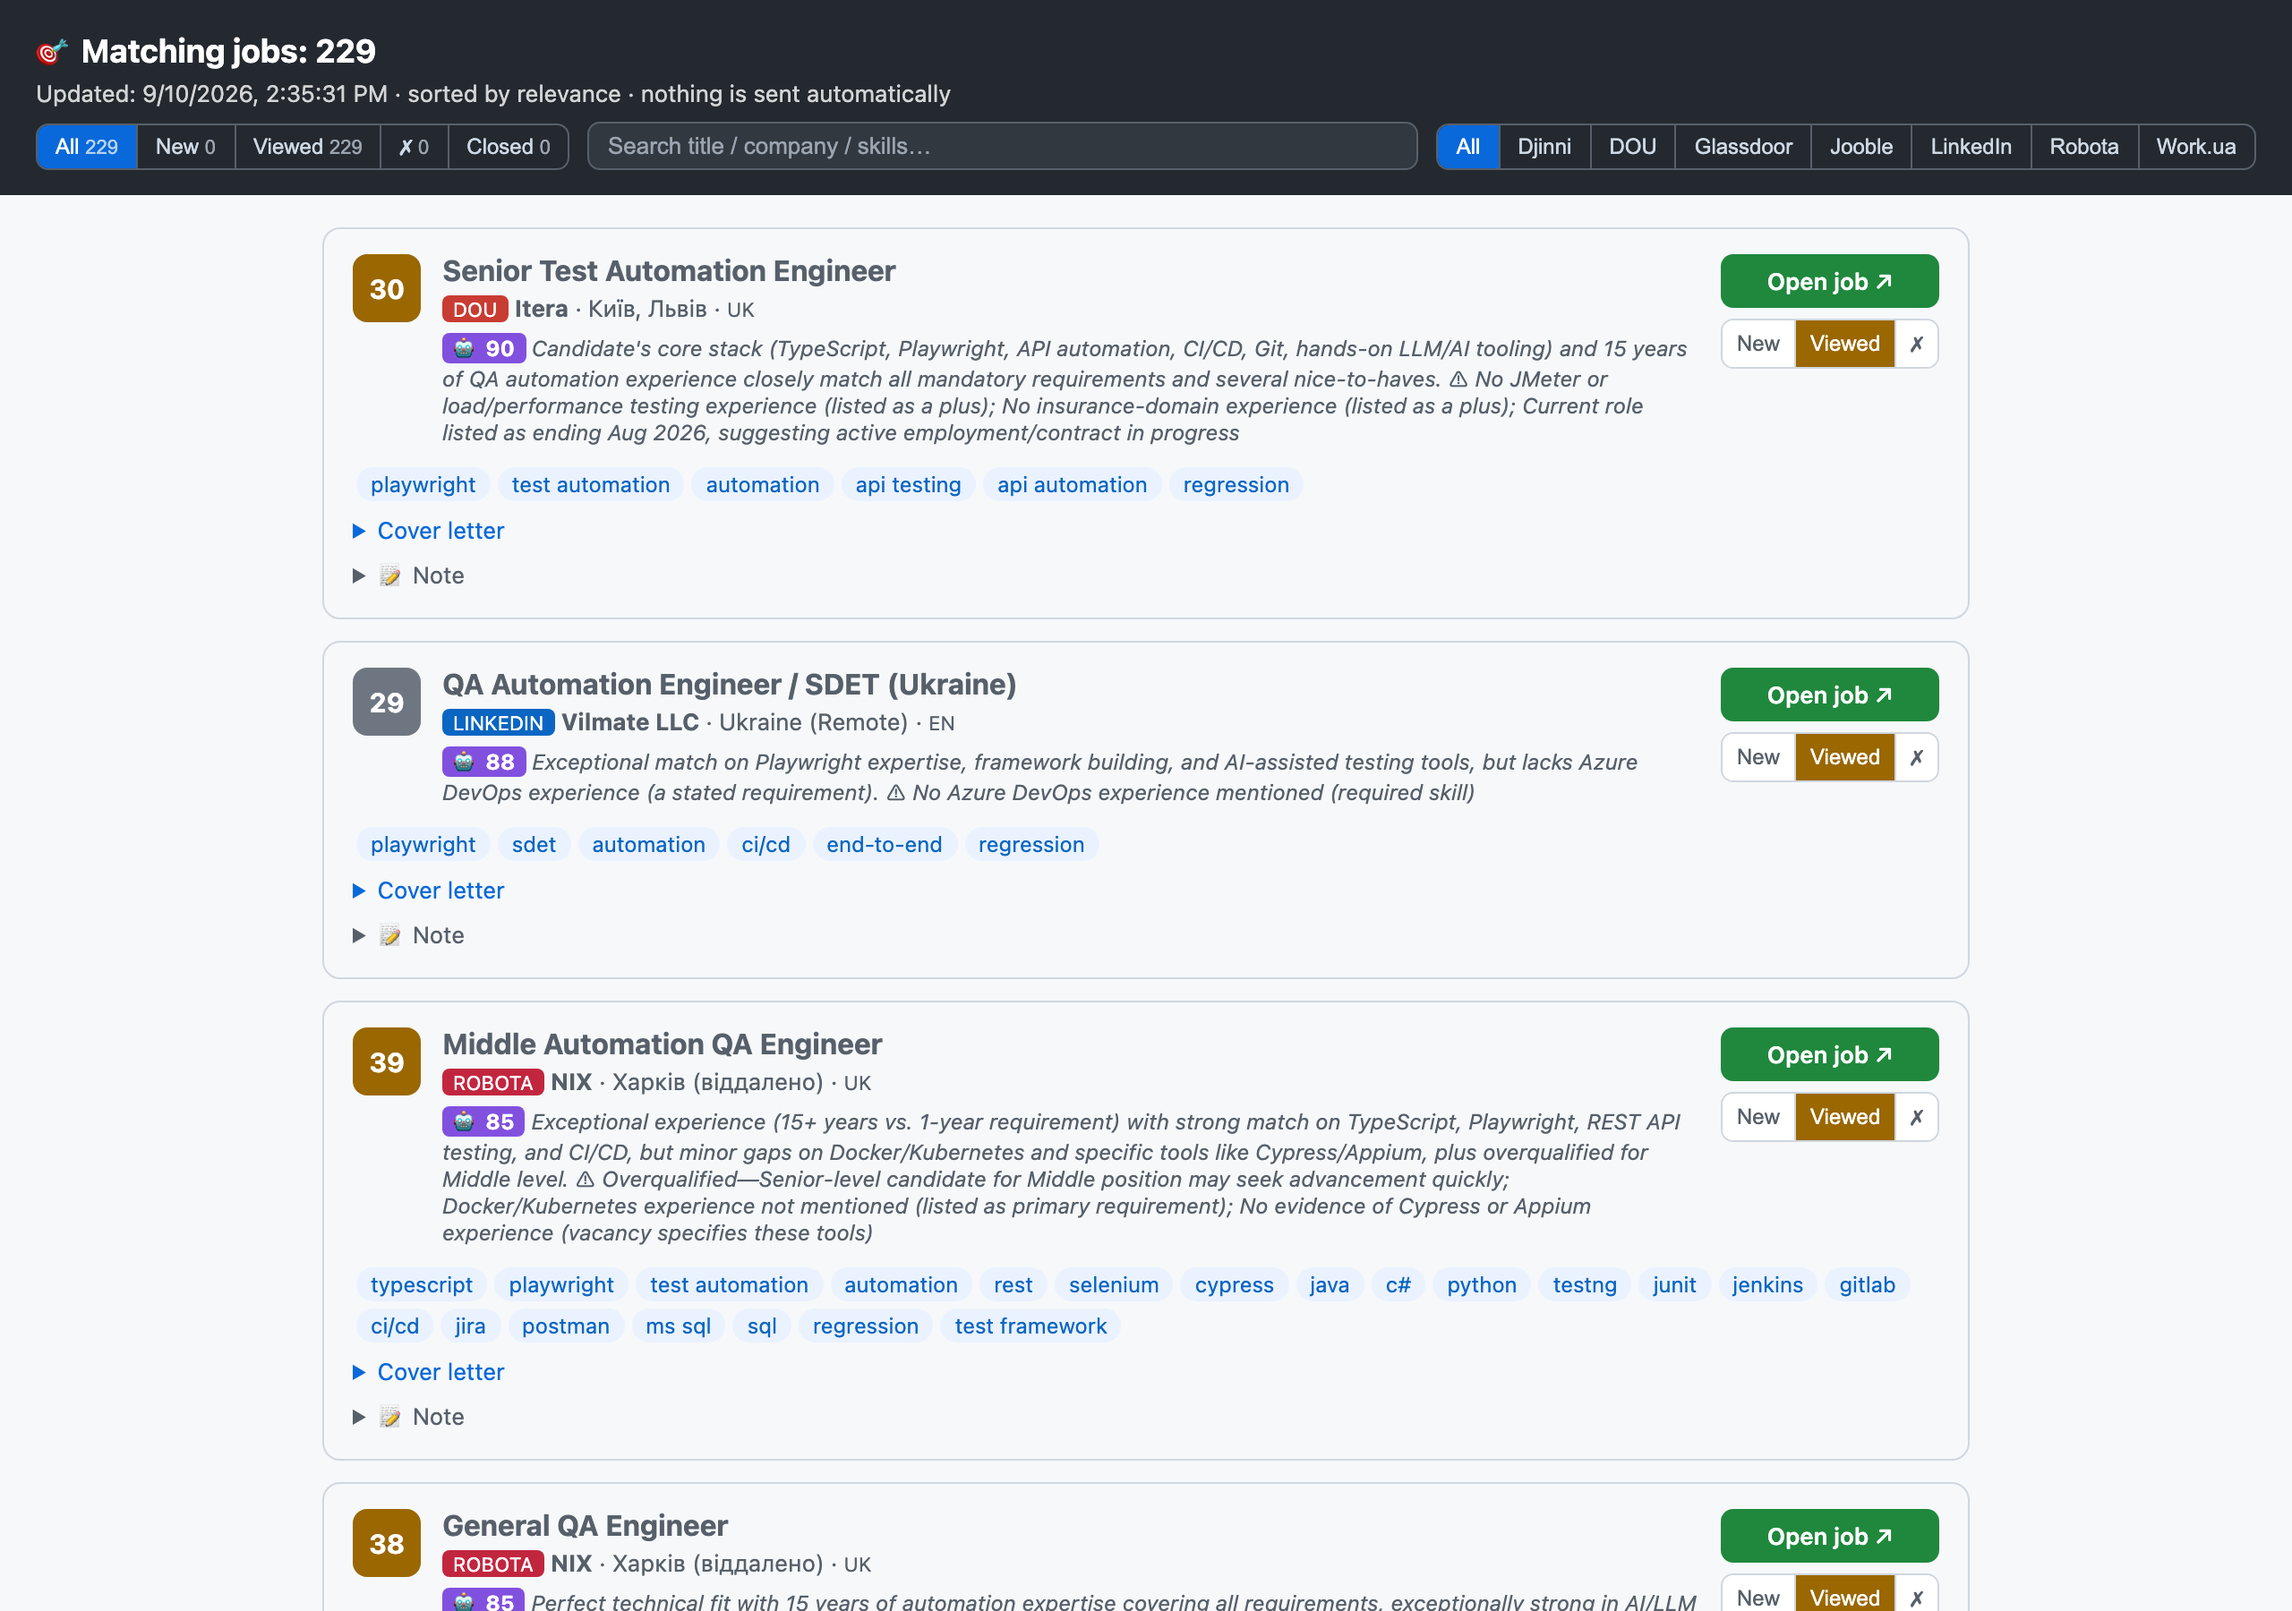
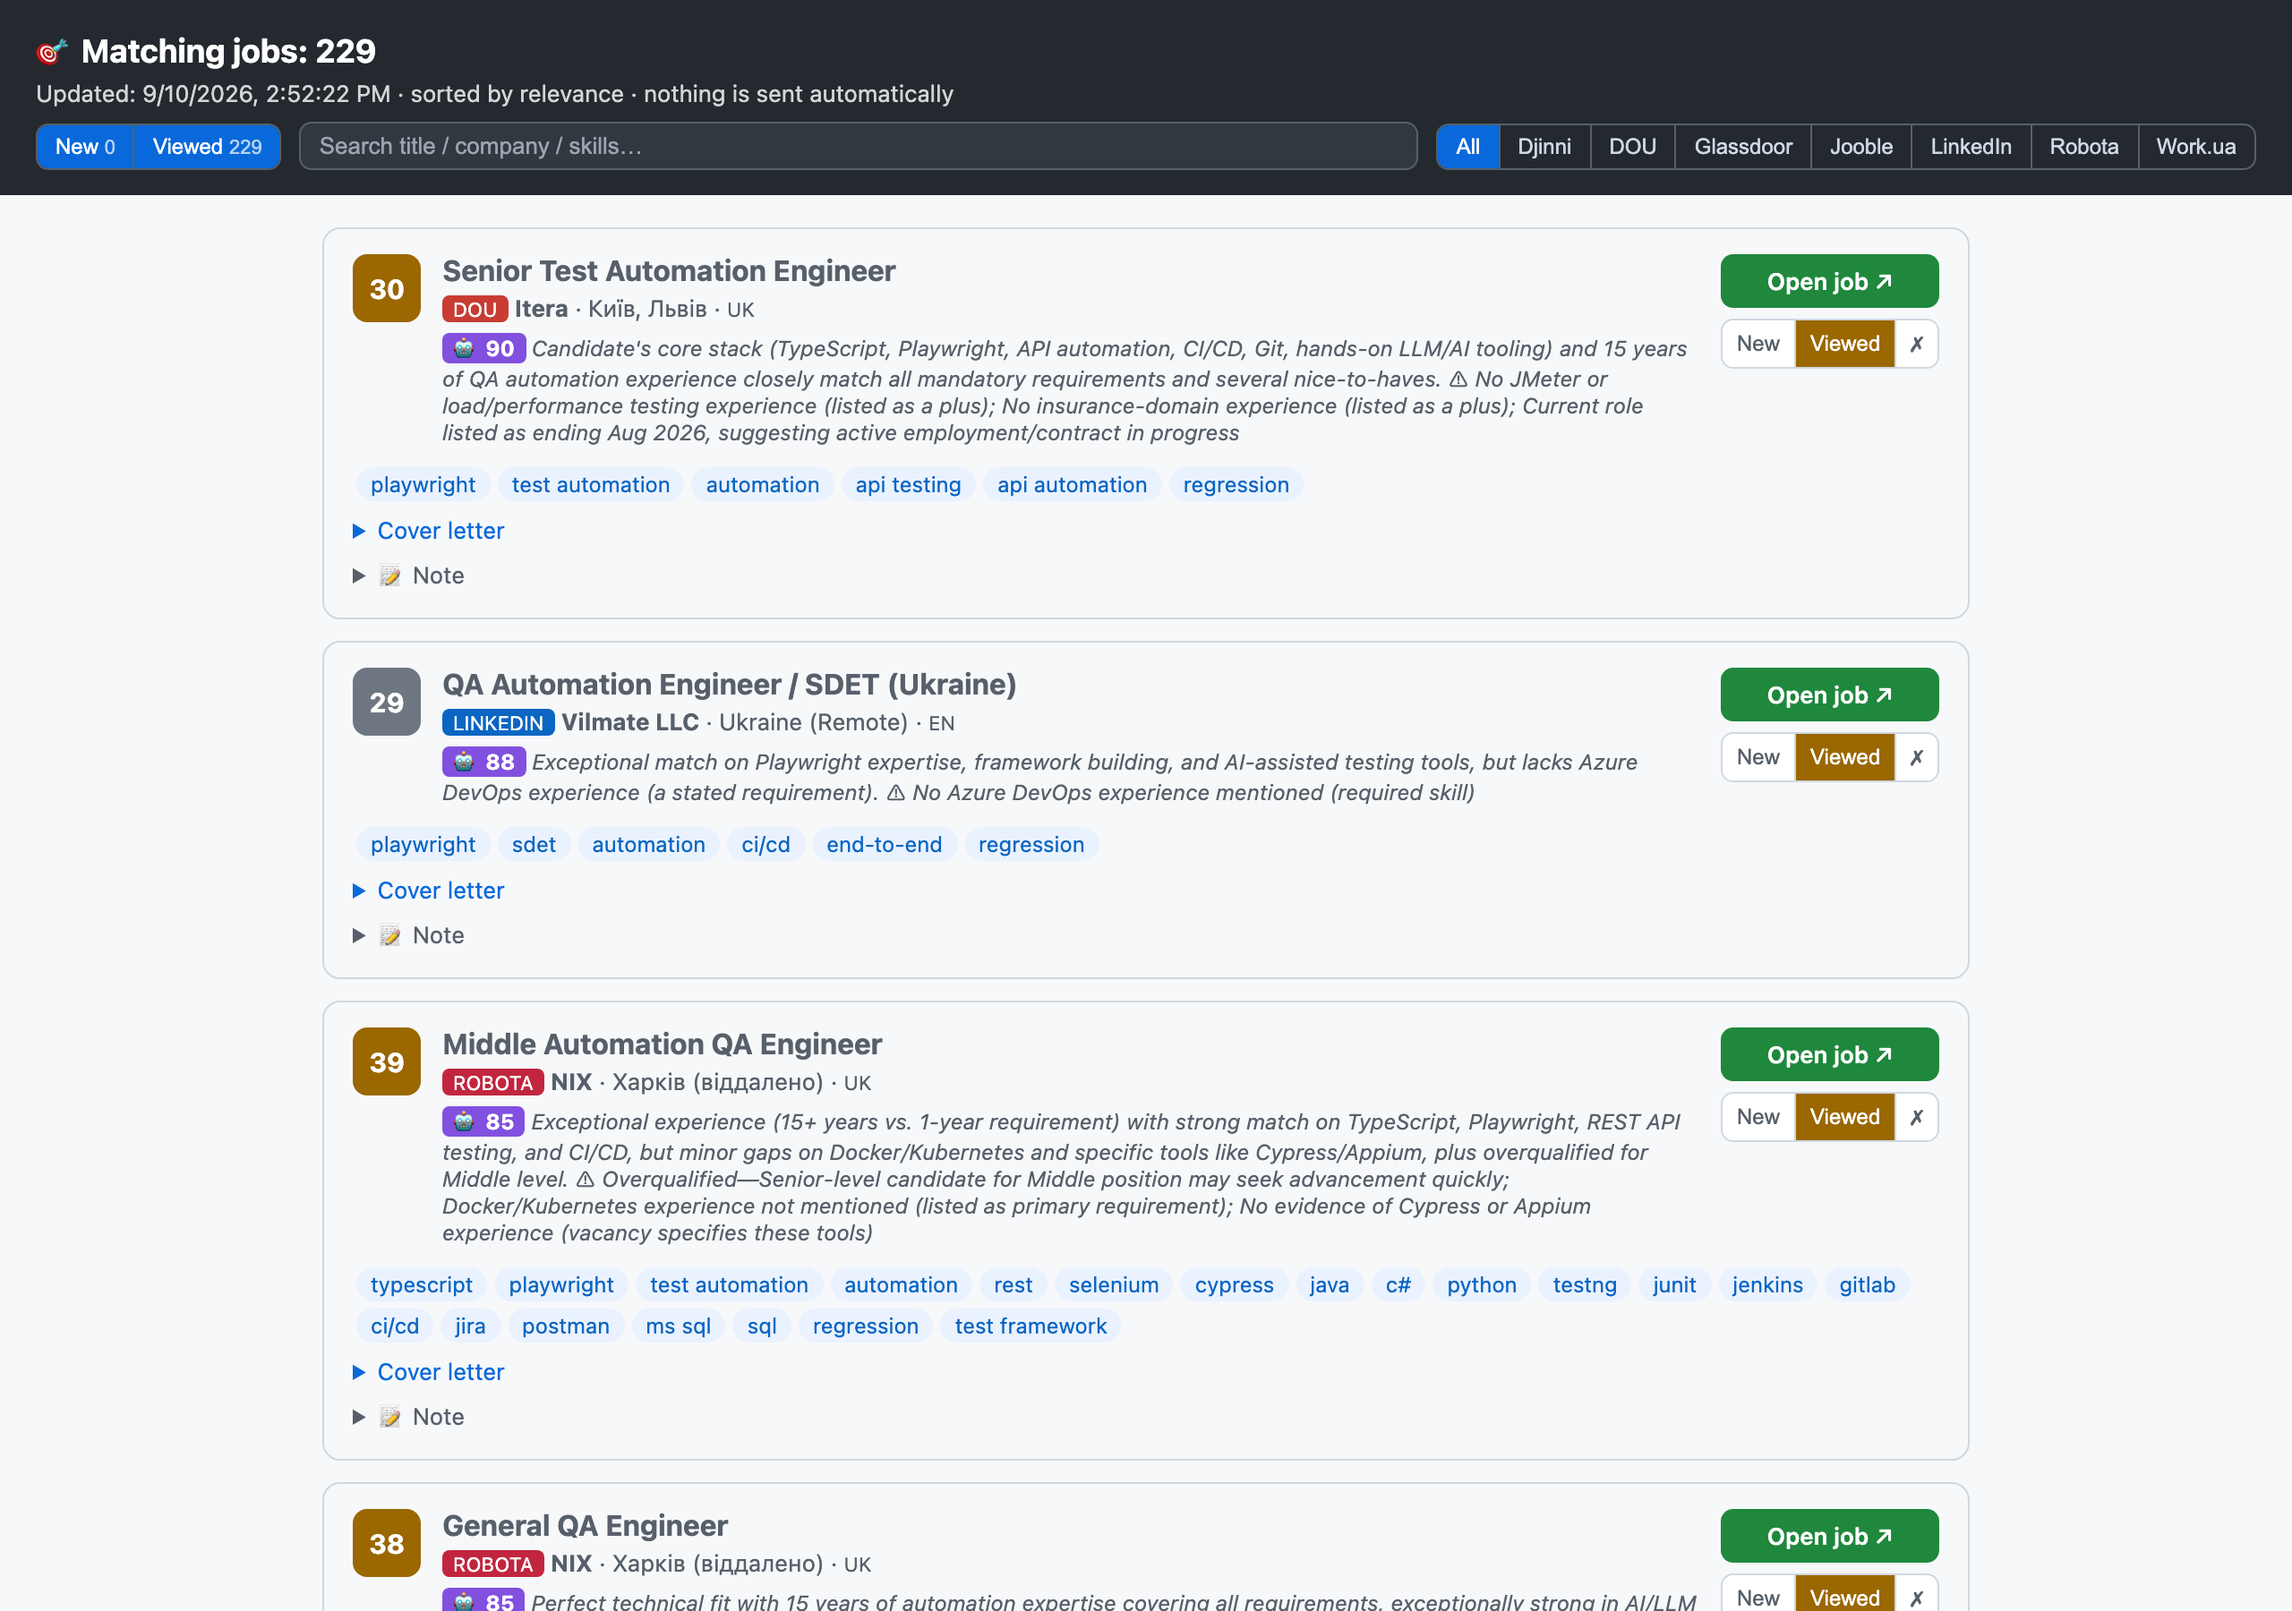
feat(dashboard): status filter is New / Viewed only
Drop the All, ✗ and Closed header tabs: ✗ and Closed cards get archived
anyway and were never browsed. Deselecting both remaining tabs still shows
everything. A saved filter naming a removed tab is dropped on restore.

Changed region(s): [[0.0312, 0.0311, 0.4062, 0.1244]]

diff --git a/lib/dashboard-client-dom.js b/lib/dashboard-client-dom.js
@@ -220,8 +220,9 @@ function saveFilters(){
 function restoreFilters(){
   let f; try { f = JSON.parse(localStorage.getItem(FILTERS_KEY) || 'null'); } catch {}
   if (!f || typeof f !== 'object') return;
-  // Statuses that no longer exist (a saved "applied" filter) would show an empty board.
-  statusSel.clear(); (f.status || []).filter((v)=>['new', ...STATUSES].includes(v)).forEach((v)=>statusSel.add(v));
+  // Only statuses with a header button (dashboard.mjs): a saved filter for a
+  // removed one ("applied", "closed") would show an empty board.
+  statusSel.clear(); (f.status || []).filter((v)=>['new', 'viewed'].includes(v)).forEach((v)=>statusSel.add(v));
   srcSel.clear(); (f.src || []).forEach((v)=>srcSel.add(v));
   query = (f.query || '').trim().toLowerCase();
   const q = document.getElementById('q'); if (q) q.value = query;
@@ -233,7 +234,7 @@ function setQuery(v){ query = v.trim().toLowerCase(); clearTimeout(queryTimer); 
 function setSource(src){ toggleSel(srcSel, src); syncSeg(srcSel, '.src-seg button', 'src'); applyFilter(); }
 
 function applyFilter(){
-  const counts = { all: 0, new: 0, viewed: 0, rejected: 0, closed: 0 };
+  const counts = { all: 0, new: 0, viewed: 0, rejected: 0, closed: 0 };   // ✗/closed counted, no header button (they only show under All)
   const filters = { statusSel: [...statusSel], srcSel: [...srcSel], query };
   cards.forEach((card) => {
     const st = statusOf(card.dataset.url);

diff --git a/README.uk.md b/README.uk.md
@@ -246,11 +246,11 @@ node dashboard.mjs --open   # перебудувати і відкрити
 вибірково, на сайті вакансії, тож дашборд стежить лише за тим, що потрібно, аби
 лишатися читабельним. Картка **New**, доки ви не відкриєте вакансію чи не
 розгорнете лист — тоді вона автоматично стає **Viewed**; **✗** ховає вакансію,
-яка не ваша; **Closed** ставить перевірка закритих вакансій нижче. Це вся
-модель — конвеєра applied/answered/interview немає (кілька справжніх відгуків
+яка не ваша; **Closed** ставить перевірка закритих вакансій нижче; обидві
+зникають з переглядів New і Viewed (зніміть обидві вкладки, щоб побачити все). Це вся модель — конвеєра applied/answered/interview немає (кілька справжніх відгуків
 живуть у вашій поштовій скриньці, не тут). До будь-якої картки можна додати
 приватну нотатку; вона зберігається на диск через сервер стану. У шапці —
-живі лічильники за статусами і фільтр за ними.
+New / Viewed з живими лічильниками.
 
 ![Розгорнута картка — супровідний лист, приватна нотатка](docs/card.png)
 
@@ -268,8 +268,8 @@ node dashboard.mjs --open   # перебудувати і відкрити
 одна за секунду, кожна адреса не частіше ніж раз на 3 дні, 150 за запуск), і
 позначає ті, які дошка називає неактивними («вакансія неактивна», публічне
 «No longer accepting applications» у LinkedIn), як **Closed**.
-Закриті картки зникають з перегляду New, отримують приглушену позначку «· closed»,
-власний фільтр і не відкриваються назад кліком. Картки ✗ не чіпаються.
+Закриті картки зникають з переглядів New і Viewed (зі знятими вкладками видні з
+приглушеною позначкою «· closed») і не відкриваються назад кліком. Картки ✗ не чіпаються.
 Адреси Jooble/Work.ua/Robota.ua/Glassdoor
 пропускаються (на звичайний GET відповідають Cloudflare 403). Налаштування: `CLOSED_MAX`
 і `CLOSED_RECHECK_DAYS`; банерів не показує — закриті вакансії видно за приглушеною

diff --git a/README.md b/README.md
@@ -237,11 +237,12 @@ with the server sources and restarts it when they are newer, so no manual
 selectively on the job site, so the dashboard tracks only what it needs to stay
 readable. A card is **New** until you open the job or expand its letter, which
 marks it **Viewed** automatically; **✗** hides a vacancy that is not for you;
-**Closed** is set by the closed-vacancy check below. That is the whole model —
+**Closed** is set by the closed-vacancy check below; both drop out of the New
+and Viewed views (deselect both tabs to see everything). That is the whole model —
 there is no applied/answered/interview pipeline (the few real applications live
 in your mailbox, not here). You can attach private notes to any card; they are
-saved to disk via the state server. The header shows live counts per status and
-lets you filter by them.
+saved to disk via the state server. The header shows New / Viewed with live
+counts.
 
 ![Card expanded — cover letter, private note](docs/card.png)
 
@@ -259,7 +260,7 @@ Djinni and LinkedIn vacancies that are still **New** or **Viewed** (plain GET, o
 second, each url at most every 3 days, 150 per run) and marks the ones the board
 reports inactive ("вакансія неактивна", LinkedIn's public "No longer accepting
 applications") as **Closed**. Closed cards leave the
-New view, get a muted "· closed" cue, have their own filter, and are never
+New and Viewed views (with both tabs deselected they show a muted "· closed" cue) and are never
 auto-reopened by clicking them. ✗ cards are left alone. Jooble/Work.ua/Robota.ua/Glassdoor urls are skipped (they answer a plain GET
 with a Cloudflare 403). Tune with `CLOSED_MAX` and
 `CLOSED_RECHECK_DAYS`; it never posts a banner — closures show up as the muted
